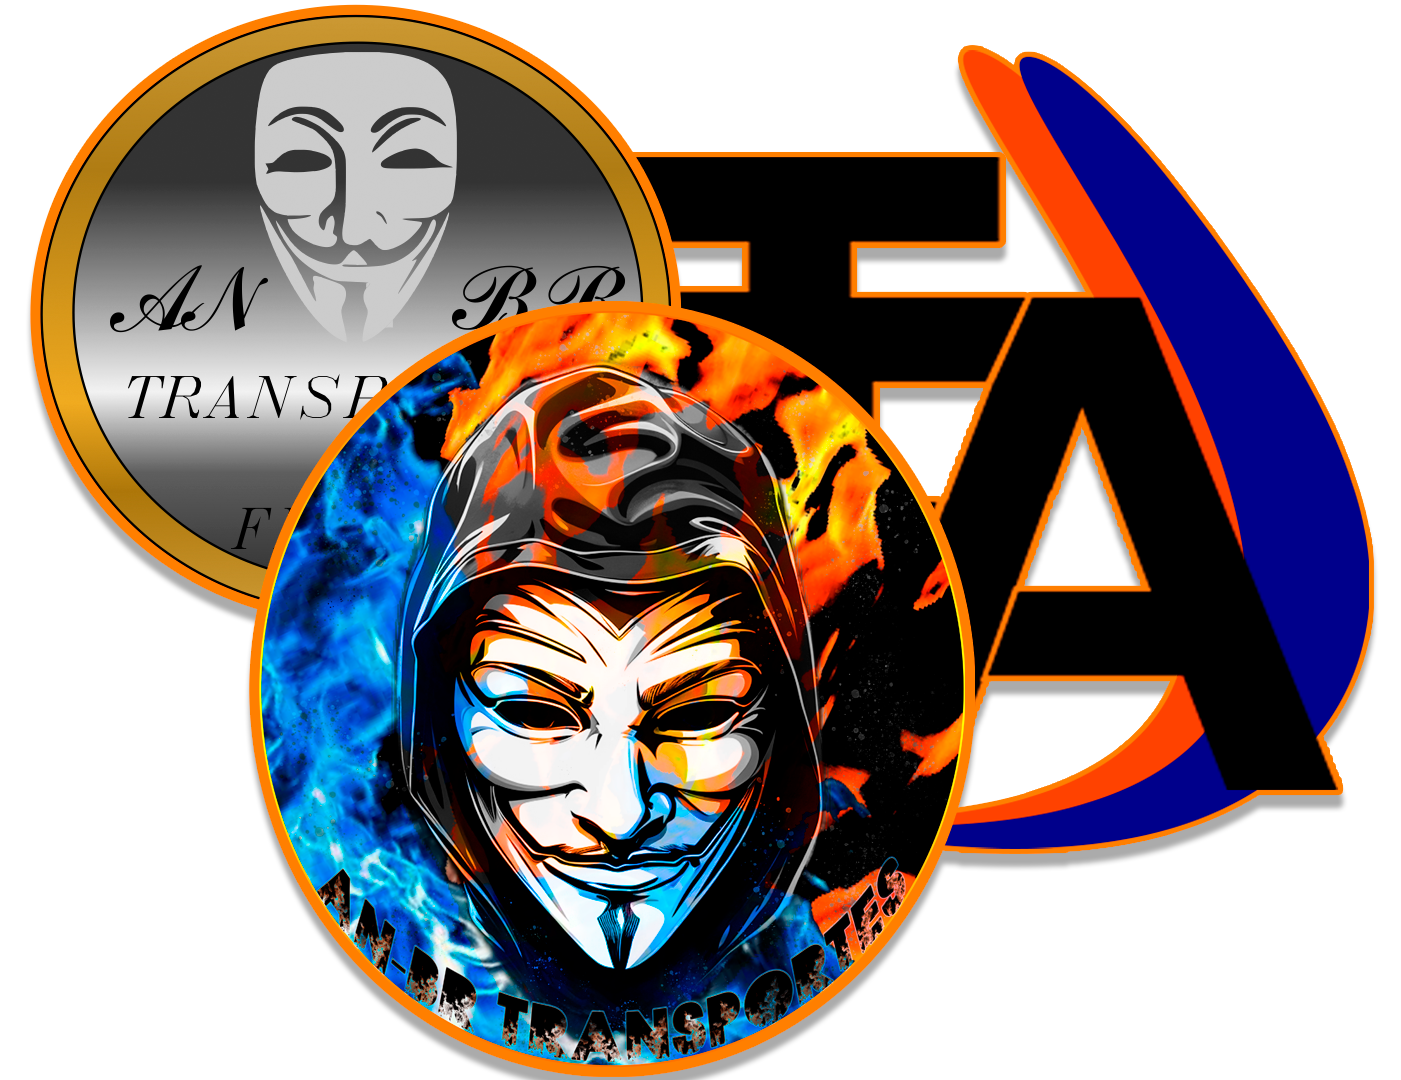
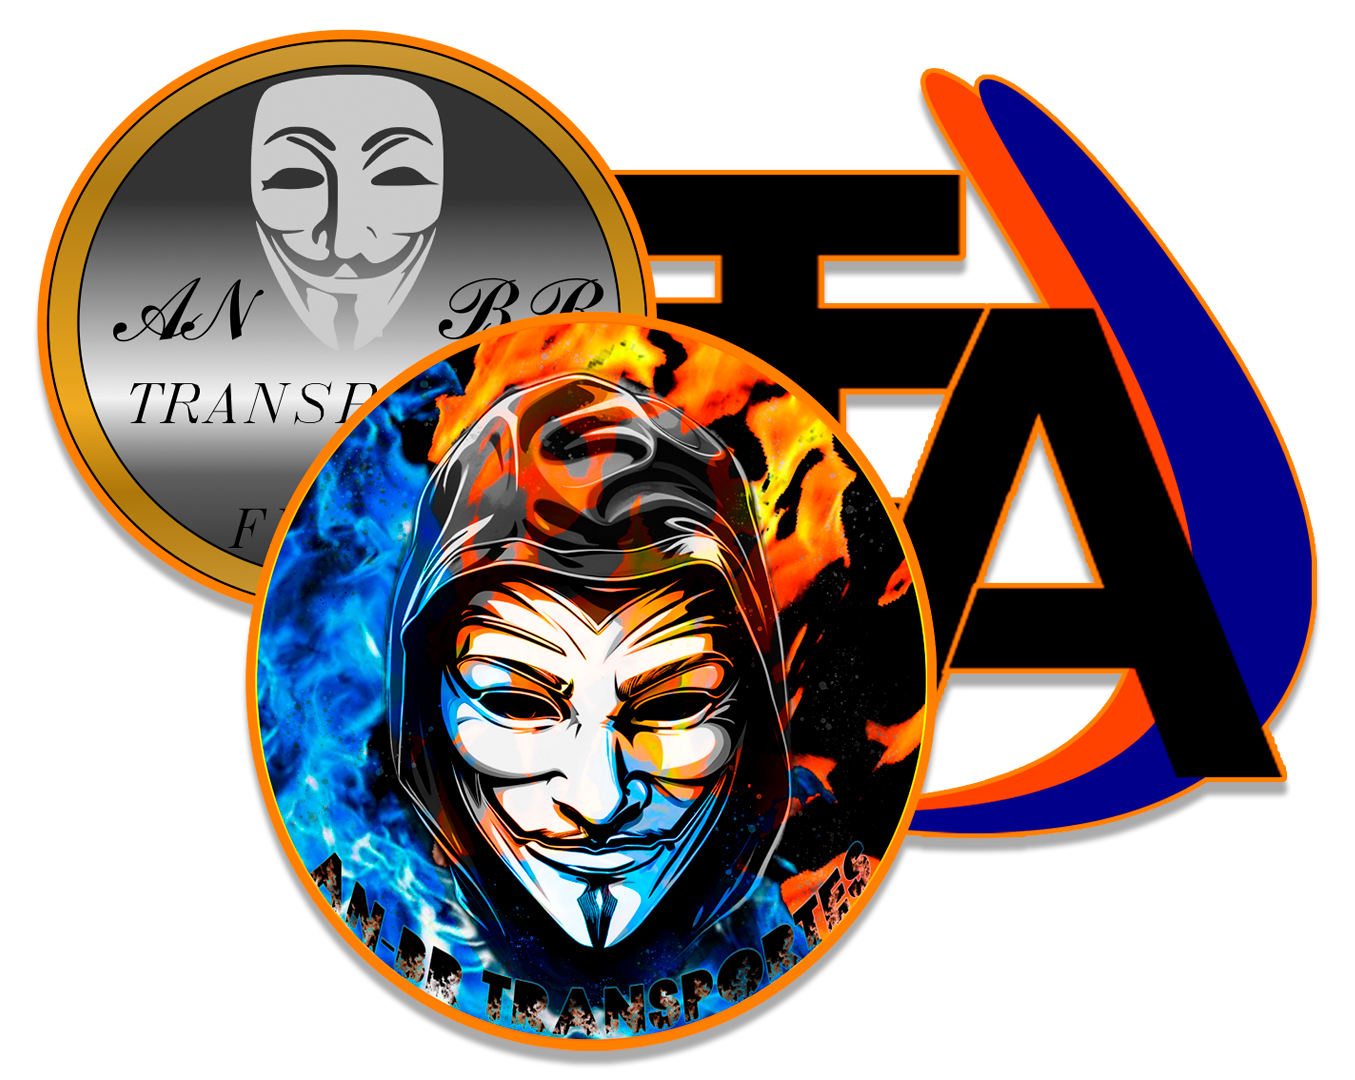
.

diff --git a/estilo/estilo.css b/estilo/estilo.css
@@ -261,7 +261,42 @@
     max-width: 700px;
     border-radius: 15px;
     height: 465px;
-    box-shadow: 1px 2px 15px rgba(135, 135, 238, 0.452);
+    /* box-shadow: 1px 2px 15px rgba(135, 135, 238, 0.452); */
+    animation: flutuar 4s ease-in-out infinite;
+}
+
+.img-cont img:hover{
+    animation: parar 4s ease-in-out;
+}
+
+@keyframes flutuar{
+    0%{
+        transform: translateY(0px);
+    }
+
+    50%{
+        transform: translateY(-20px);
+    }
+
+
+    100%{
+        transform: translateY(0px);
+    }
+}
+
+@keyframes parar{
+    0%{
+        transform: translateY(0px);
+    }
+
+    50%{
+        transform: translateY(0px);
+    }
+
+
+    100%{
+        transform: translateY(0px);
+    }
 }
 
 .history-text{

diff --git a/index.html b/index.html
@@ -51,7 +51,7 @@
         </article>
         <article class="valors-cont">
             <article class="img-cont">
-                <img src="./assets/imagens/img.png" alt="img">
+                <img src="./assets/imagens/empresa.png" alt="img">
             </article>
             <article class="history-text">
 
